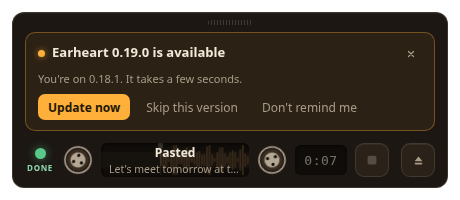
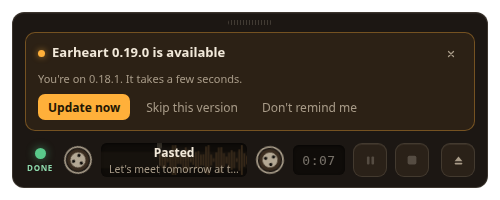
feat(overlay): add a pause key to hold and resume a dictation
A latching PAUSE transport key between the counter and STOP: press it to
hold the take (talk to someone, take a call), press again to resume the
same dictation. While paused the mic track is muted and any in-flight
samples are discarded, so the captured audio stays contiguous across the
gap; the tape, counter, and max-duration cap all hold with it (the cap
counts captured audio, so paused time never eats dictation time). The
lamp shows a steady hollow REC ring with a PAUSE legend — the filled-
lamp contract holds: a lit lamp still means "capturing right now". Stop
and eject keep working from the paused state, and the pause key is
disabled (not just unlit) for keyboard and AT whenever there is no live
take to hold.

The window widens 460 -> 500 for the fourth key. overlay-smoke gains a
session asserting the paused span is excluded from the delivered WAV and
that the counter agrees; screenshots gain the paused state.

diff --git a/renderer/overlay.js b/renderer/overlay.js
@@ -5,6 +5,7 @@ const SAMPLE_RATE = 16000;
 
 const card = document.getElementById("card");
 const stopBtn = document.getElementById("stop");
+const pauseBtn = document.getElementById("pause");
 const statusText = document.getElementById("status-text");
 const detailText = document.getElementById("detail-text");
 const timerEl = document.getElementById("timer");
@@ -133,9 +134,10 @@ function meterFrame(now) {
     displayLevels[i] = next;
   }
   // Write the tape while audio is actually being captured, sampling the eased
-  // head level so the written trace matches what the head shows.
+  // head level so the written trace matches what the head shows. A paused
+  // take holds the tape entirely.
   let frac = 0;
-  if (recording?.startedAt) {
+  if (recording?.startedAt && !recording.pausedAt) {
     if (tapePushAt === 0) tapePushAt = now;
     while (now - tapePushAt >= TAPE_PUSH_MS) {
       tapeHistory.unshift(displayLevels[displayLevels.length - 1]);
@@ -181,10 +183,18 @@ const PROGRESS_HOLD_STATUSES = new Set(["transcribing", "cleaning", "delivering"
 
 function setStatus(status, title, detail) {
   card.dataset.status = status;
-  // The stop key only works while there's a take to stop. Disable it for
-  // keyboard and assistive tech too, not just visually — the unlit-key style
-  // and pointer-events guard live in overlay.css.
-  stopBtn.disabled = status !== "recording" && status !== "starting";
+  // The stop key only works while there's a take to stop (a paused take still
+  // counts). Disable it for keyboard and assistive tech too, not just
+  // visually — the unlit-key style and pointer-events guard live in
+  // overlay.css.
+  stopBtn.disabled =
+    status !== "recording" && status !== "starting" && status !== "paused";
+  // The pause key latches a live take and releases it; anywhere else it is
+  // inert. Its label follows the action it would perform.
+  pauseBtn.disabled = status !== "recording" && status !== "paused";
+  const pauseLabel = status === "paused" ? "Resume" : "Pause";
+  pauseBtn.title = pauseLabel;
+  pauseBtn.setAttribute("aria-label", pauseLabel);
   statusText.textContent = title;
   detailText.textContent = detail || "";
   // Every phase change retires the previous phase's bar. It stays hidden until
@@ -275,11 +285,19 @@ function drawMeter(frac = 0) {
   }
 }
 
+// Milliseconds of audio actually captured: wall time since the first samples,
+// minus every paused span (including one still open). The visible counter and
+// the max-duration cap both read this, so they can never disagree.
+function capturedMs(rec) {
+  return (rec.pausedAt ?? Date.now()) - rec.startedAt - rec.pausedMs;
+}
+
 function updateTimer() {
   // startedAt is set on the FIRST audio samples, not at setup: the timer
-  // counts captured audio, so it starts the moment "Listening…" appears.
+  // counts captured audio, so it starts the moment "Listening…" appears —
+  // and holds while the take is paused.
   if (!recording || !recording.startedAt) return;
-  const seconds = Math.floor((Date.now() - recording.startedAt) / 1000);
+  const seconds = Math.floor(capturedMs(recording) / 1000);
   timerEl.textContent = `${Math.floor(seconds / 60)}:${String(seconds % 60).padStart(2, "0")}`;
 }
 
@@ -379,6 +397,9 @@ function trailingRms(chunks, windowSamples) {
 // preview cosmetics) are skipped, so no per-tick decode cost is paid.
 function sendPartial() {
   if (!recording || !livePreview) return;
+  // Paused: nothing new was recorded, so skip the tick entirely rather than
+  // re-decoding the same in-progress chunk on every interval.
+  if (recording.pausedAt) return;
   const total = totalSamples(recording.chunks);
   const from = recording.committedSamples;
   if (total <= from) return; // nothing new recorded since the last commit
@@ -555,6 +576,9 @@ async function startRecording({ sid, deviceId, maxSeconds, livePreview: live }) 
       // The node is disconnected on teardown, but a message can already be in
       // flight; never let a stale session's samples leak into the current one.
       if (!recording || recording.recorder !== recorder) return;
+      // Paused: the track is muted at the source, and whatever still arrives
+      // is discarded — the capture stays contiguous and the meter freezes.
+      if (recording.pausedAt) return;
       chunks.push(event.data.samples);
       // Just record the level; the rAF meter loop reads `levels` each frame.
       levels.push(event.data.rms);
@@ -572,6 +596,11 @@ async function startRecording({ sid, deviceId, maxSeconds, livePreview: live }) 
       // Set by micLive() on the first samples; "Listening…" and the timer wait
       // for it. Until then the card still shows "Starting mic…".
       startedAt: null,
+      // Pause bookkeeping: pausedAt holds the timestamp while the take is
+      // paused; pausedMs accumulates completed paused spans. Both feed
+      // capturedMs(), which the counter and the max-duration cap share.
+      pausedAt: null,
+      pausedMs: 0,
       // Append-only live preview: `committedSamples` is the sample offset where
       // the current in-progress chunk starts; everything before it has been
       // frozen into committed chunks and need never be re-sent. `seq` counts
@@ -706,6 +735,43 @@ function cancelRecording() {
     earheart.send("record:cancelled", { sid });
   } else {
     earheart.send("pipeline:cancel");
+  }
+}
+
+// Pause/resume a live take: the transport holds — mic track muted, tape and
+// counter frozen, the paused span excluded from the max-duration cap — and
+// pressing pause again continues the SAME take, so the captured audio stays
+// contiguous across the gap. Only a take that is actually capturing
+// (startedAt set) can pause; stop and eject keep working from the paused
+// state, and the global hotkey still stops as usual.
+function togglePause() {
+  if (!recording || !recording.startedAt) return;
+  if (!recording.pausedAt) {
+    recording.pausedAt = Date.now();
+    // The cap counts captured audio: hold it while paused.
+    if (recording.maxTimerId) {
+      clearTimeout(recording.maxTimerId);
+      recording.maxTimerId = null;
+    }
+    // Mute at the track so nothing is even delivered; the onmessage guard
+    // discards any chunk already in flight.
+    recording.stream.getAudioTracks().forEach((track) => (track.enabled = false));
+    setStatus("paused", "Paused", "Pause again to resume");
+  } else {
+    recording.pausedMs += Date.now() - recording.pausedAt;
+    recording.pausedAt = null;
+    recording.stream.getAudioTracks().forEach((track) => (track.enabled = true));
+    const remainingMs = recording.maxSeconds * 1000 - capturedMs(recording);
+    if (remainingMs <= 0) {
+      // The take was already at the cap when it paused; finish it.
+      stopRecording();
+      return;
+    }
+    recording.maxTimerId = setTimeout(() => stopRecording(), remainingMs);
+    // Re-anchor the tape's write clock: the tape didn't move while paused,
+    // matching the capture — no gap is written for the gap.
+    tapePushAt = 0;
+    setStatus("recording", "Listening…");
   }
 }
 
@@ -887,6 +953,7 @@ earheart.on("overlay:hide", () => card.classList.remove("visible"));
 new ResizeObserver(resizeMeter).observe(meter);
 
 stopBtn.addEventListener("click", stopRecording);
+pauseBtn.addEventListener("click", togglePause);
 document.getElementById("cancel").addEventListener("click", cancelRecording);
 
 // Click-and-drag anywhere on the card (except the buttons) moves the overlay.

diff --git a/renderer/overlay.html b/renderer/overlay.html
@@ -18,11 +18,11 @@
       amber, DONE green, inert warm grey); ivory silk-screen legends; machined
       keys. Flat matte — glow comes only from lamps and backlit keys.
       STORY: A glance says: lamp lit, reels turning, my words are being written
-      onto tape and appearing above; the backlit square key stops, eject
-      discards.
+      onto tape and appearing above; the backlit square key stops, pause holds
+      the tape, eject discards.
       FIRST VIEWPORT: One low strip — lamp block, supply reel, tape window with
-      record head, take-up reel, counter cell, STOP, EJECT; the live transcript
-      grows upward above it.
+      record head, take-up reel, counter cell, PAUSE, STOP, EJECT; the live
+      transcript grows upward above it.
       FORM: Tape transport, candidate 4 of 7 (assigned), seed d2b6eb8d;
       sweep-decay staging borrowed only as freshness-cooling transcript text.
     -->
@@ -140,6 +140,14 @@
         <!-- Mechanical counter: counts captured audio only (lit while the tape
              is actually being written). -->
         <div id="counter"><span id="timer">0:00</span></div>
+        <!-- Pause latches the transport: capture, tape, and counter hold, and
+             pressing it again resumes the same take. -->
+        <button id="pause" title="Pause" aria-label="Pause" disabled>
+          <svg viewBox="0 0 16 16" width="13" height="13" aria-hidden="true">
+            <rect x="3.6" y="3" width="3.2" height="10" rx="1.2" fill="currentColor" />
+            <rect x="9.2" y="3" width="3.2" height="10" rx="1.2" fill="currentColor" />
+          </svg>
+        </button>
         <button id="stop" title="Stop and transcribe" aria-label="Stop and transcribe">
           <svg viewBox="0 0 16 16" width="14" height="14" aria-hidden="true">
             <rect x="3" y="3" width="10" height="10" rx="2" fill="currentColor" />

diff --git a/renderer/overlay.css b/renderer/overlay.css
@@ -377,6 +377,18 @@ body {
   color: #8fdcae;
 }
 
+/* Paused: armed to record but deliberately not capturing — a STEADY hollow
+   ring (the pulsing hollow ring means the mic is still warming), PAUSE
+   legend, reels and tape held where they stopped. */
+[data-status="paused"] #indicator {
+  background: transparent;
+  border: 2px solid var(--rec);
+}
+
+[data-status="paused"] #lamp-legend::after {
+  content: "PAUSE";
+}
+
 [data-status="error"] #indicator,
 [data-status="empty"] #indicator {
   background: var(--inert);
@@ -687,12 +699,40 @@ button:focus-visible {
 }
 
 /* Outside a take there is nothing to stop: the key stays in its slot but goes
-   unlit and inert — a machine doesn't remove its keys. */
-#card:not([data-status="recording"]):not([data-status="starting"]) #stop {
+   unlit and inert — a machine doesn't remove its keys. A paused take still
+   counts as a take, so stop stays backlit through it. */
+#card:not([data-status="recording"]):not([data-status="starting"]):not(
+    [data-status="paused"]
+  )
+  #stop {
   background: var(--key);
   border-color: var(--key-edge);
   color: rgba(242, 233, 218, 0.22);
   box-shadow: inset 0 1px 0 rgba(255, 240, 214, 0.05);
+  pointer-events: none;
+}
+
+/* PAUSE: quiet next to the backlit stop, and latched down while the transport
+   holds — sunk into the faceplate like the mechanical key it is. Inert (unlit)
+   whenever there is no live take to hold; overlay.js mirrors that with the
+   disabled attribute for keyboard and AT. */
+#pause {
+  color: var(--ivory-dim);
+}
+
+#pause:hover:not(:disabled) {
+  color: var(--ivory);
+}
+
+[data-status="paused"] #pause {
+  background: var(--recess);
+  box-shadow: inset 0 2px 3px rgba(0, 0, 0, 0.55);
+  color: var(--ivory);
+  transform: translateY(1px);
+}
+
+#pause:disabled {
+  color: rgba(242, 233, 218, 0.22);
   pointer-events: none;
 }
 

diff --git a/scripts/overlay-smoke.js b/scripts/overlay-smoke.js
@@ -197,6 +197,37 @@ app.whenReady().then(async () => {
       `wav=${stats5.seconds.toFixed(2)}s rms=${stats5.rms.toFixed(4)}`
     );
 
+    // ---- Session 6: pause holds capture; the paused span is excluded --------
+    // Speak ~0.5s, pause ~0.6s (the fake mic keeps producing tone — none of it
+    // may land in the capture), resume and speak ~0.5s more. The WAV must
+    // cover only the live spans, and the counter must agree with it.
+    start(win, 6);
+    await waitForStatus(win, "recording");
+    await sleep(500);
+    await win.webContents.executeJavaScript("togglePause(); ''");
+    await waitForStatus(win, "paused");
+    await sleep(600);
+    await win.webContents.executeJavaScript("togglePause(); ''");
+    await waitForStatus(win, "recording");
+    await sleep(500);
+    const captured6P = waitForMessage("audio:captured");
+    win.webContents.send("record:stop");
+    const captured6 = await captured6P;
+    const stats6 = wavStats(captured6.wav);
+    check(
+      "paused span is excluded from the capture",
+      captured6.sid === 6 && stats6.seconds > 0.75 && stats6.seconds < 1.35,
+      `wav=${stats6.seconds.toFixed(2)}s across ~1.0s live + 0.6s paused`
+    );
+    const timer6 = await win.webContents.executeJavaScript(
+      `document.getElementById("timer").textContent`
+    );
+    check(
+      "counter counts captured audio only",
+      timer6 === "0:00" || timer6 === "0:01",
+      `timer=${timer6}`
+    );
+
     check("no mic errors during the run", micErrors.length === 0, micErrors.join("; "));
 
     const failed = checks.filter((c) => !c.ok);

diff --git a/scripts/screenshots.js b/scripts/screenshots.js
@@ -73,6 +73,20 @@ app.whenReady().then(async () => {
   await sleep(400);
   await shot(overlay, "overlay-recording");
 
+  // Paused mid-take: the transport holds — latched pause key, steady hollow
+  // REC ring, frozen tape behind the machine display.
+  await overlay.webContents.executeJavaScript(`
+    setStatus("paused", "Paused", "Pause again to resume");
+    "";
+  `);
+  await sleep(400);
+  await shot(overlay, "overlay-paused");
+
+  await overlay.webContents.executeJavaScript(`
+    setStatus("recording", "Listening…");
+    "";
+  `);
+
   // Processing state with the playhead progress mid-read (the README's middle
   // hero shot). The transcript retires when processing starts, like the real
   // pipeline does.

diff --git a/main/windows.js b/main/windows.js
@@ -8,7 +8,9 @@ const settings = require("./settings");
 const PRELOAD = path.join(__dirname, "..", "preload.js");
 const RENDERER = path.join(__dirname, "..", "renderer");
 
-const OVERLAY_WIDTH = 460;
+// Wide enough for the transport row (lamp, reels, tape window, counter,
+// pause/stop/eject keys) to keep a generous tape window.
+const OVERLAY_WIDTH = 500;
 // Base card: drag rail (~17px) + 46px transport row + 6px bottom margin +
 // 2px border, plus 12px window margin top/bottom.
 const OVERLAY_HEIGHT = 95;

diff --git a/DESIGN.md b/DESIGN.md
@@ -258,7 +258,7 @@ monospace numerals — never by typeface.
 - **Note body / detail** (400, 11px / 10.5px): secondary lines in Unlit
   Ivory.
 - **Legend** (700, 8px, 0.08em, UPPERCASE): the printed micro-legend under
-  the lamp (REC/BUSY/DONE/ERR) — the only uppercase in the world.
+  the lamp (REC/BUSY/DONE/PAUSE/ERR) — the only uppercase in the world.
 - **Counter** (ui-monospace, 13px, 0.04em, tabular-nums): the take counter.
   Digits go to 45% opacity outside recording — still readable, clearly not
   running.
@@ -272,7 +272,7 @@ recessed cell. Human words are never monospace.
 ## Layout
 
 A fixed-size, frameless, transparent, bottom-anchored Electron window — the
-window is the layout. Base size 460×95px; the card sits inside a 12px margin
+window is the layout. Base size 500×95px; the card sits inside a 12px margin
 and grows *upward* as the transcript or update note fills it (the main
 process resizes the window instantly; the card eases its own height so
 content slides rather than pops).
@@ -281,7 +281,7 @@ Card anatomy, top to bottom: knurled drag rail (44×5px, centered) → optional
 update service note → live transcript → transport row. The transport row is a
 fixed 46px strip inset 12px, gapped 8px: lamp block (30px) → supply reel
 (30px) → tape window (flexes to fill — the hero owns all leftover width) →
-take-up reel → counter cell (min 52×30px) → STOP → eject, with an extra 4px
+take-up reel → counter cell (min 52×30px) → PAUSE → STOP → eject, with an extra 4px
 gap isolating the destructive eject. The transcript's 16px side padding
 shares one left edge with the machine below it. Update-note actions wrap to a
 second line rather than squeeze; when the update arrives with no dictation
@@ -333,9 +333,14 @@ the well's top edge. Keys paint 34px but offer a ~42px hit area via an inset
 - **Hover:** surface warms to #342a1e (0.12s ease).
 - **Press:** the key travels — `translateY(1px) scale(0.96)` at 0.08s.
 - **Focus:** 2px Silk-Screen Ivory outline, offset 2px.
+- **PAUSE (latching):** a quiet key in Unlit Ivory that latches a live take:
+  while paused it sits pressed — sunk into the faceplate (Recess Black fill,
+  deeper inset well, `translateY(1px)`) with an ivory glyph — and pressing it
+  again resumes the same take. Inert (unlit, disabled for AT) whenever there
+  is no live take to hold.
 - **STOP (backlit):** #3a1611 fill, rgba(255,68,56,0.5) border, #ffb4ac
-  glyph, red backlight glow — lit while there's a take to stop. Outside a
-  take it goes unlit and inert (glyph at 22% ivory, pointer-events off,
+  glyph, red backlight glow — lit while there's a take to stop (a paused
+  take still counts). Outside a take it goes unlit and inert (glyph at 22% ivory, pointer-events off,
   disabled for AT) but **stays in its slot**.
 - **Eject (cancel):** a standard key with the eject glyph in Unlit Ivory,
   warming to ivory on hover; offset an extra 4px from STOP so the
@@ -369,7 +374,9 @@ centered).
 An 11px round lamp over its printed micro-legend. Starting: hollow REC ring
 (2px Rec Lamp Red border, 1s pulse). Recording: filled Rec Lamp Red with
 bloom, 2s pulse. Working: Busy Lamp Amber with bloom, 1.4s pulse. Done: Done
-Lamp Green, steady. Error/empty: Inert Warm Grey, legend ERR/—.
+Lamp Green, steady. Error/empty: Inert Warm Grey, legend ERR/—. Paused: a
+STEADY hollow REC ring — armed but deliberately not capturing — with legend
+PAUSE; only the warming mic's hollow ring pulses.
 
 **The Filled-Lamp Contract.** The lit pulsing lamp + written tape + running
 counter mean "audio is being captured right now." While the mic warms up the
@@ -412,7 +419,7 @@ exits are grouped so they wrap together.
 
 ### The Overlay Strip (signature)
 
-The whole system in one 460px-wide strip: solid Faceplate Black card, 12px
+The whole system in one 500px-wide strip: solid Faceplate Black card, 12px
 radius, Machine Edge hairline, machined top light, no cast shadow, pinned to
 the bottom of the screen and never stealing focus. Knurled grip rail up top
 (the card is the drag surface; the rail is the cue), live transcript growing

diff --git a/.impeccable/surfaces/renderer-overlay-html.md b/.impeccable/surfaces/renderer-overlay-html.md
@@ -19,4 +19,8 @@ related_targets: ["renderer/overlay.css","renderer/overlay.js","main/windows.js"
 
 **Constraints:** transparent focusable:false window — no drop shadows, solid surfaces under text; strict local CSP (no external assets); plain JS, no new runtime deps; preserve all pipeline/IPC/drag/height-report behavior and existing status copy verbatim; honor prefers-reduced-motion; the tape is a metaphor for live capture only — nothing implies audio is stored (cancel ejects).
 
-**Unresolved:** whether settings/wizard later migrate to the deck's front-panel language (out of scope here); eject-glyph comprehension for cancel (flagged for finish review).
+**Added 2026-07-26 (user request):** a latching PAUSE transport key — capture, tape, and counter hold (mic track muted, samples discarded, paused span excluded from the max-duration cap); pressing it again resumes the same take, so the captured audio stays contiguous. Lamp shows a steady hollow REC ring with legend PAUSE; stop and eject keep working while paused. Window widened to 500px for the fourth key. Guarded by an overlay-smoke session asserting paused audio is excluded.
+
+**Resolved at finish review:** eject glyph kept for cancel; its tooltip names the consequence ("Cancel — discard the recording"), aria-label stays "Cancel". Stop key is truly disabled (not just unlit) outside starting/recording.
+
+**Unresolved:** whether settings/wizard later migrate to the deck's front-panel language (out of scope here; DESIGN.md marks them legacy pending migration).
